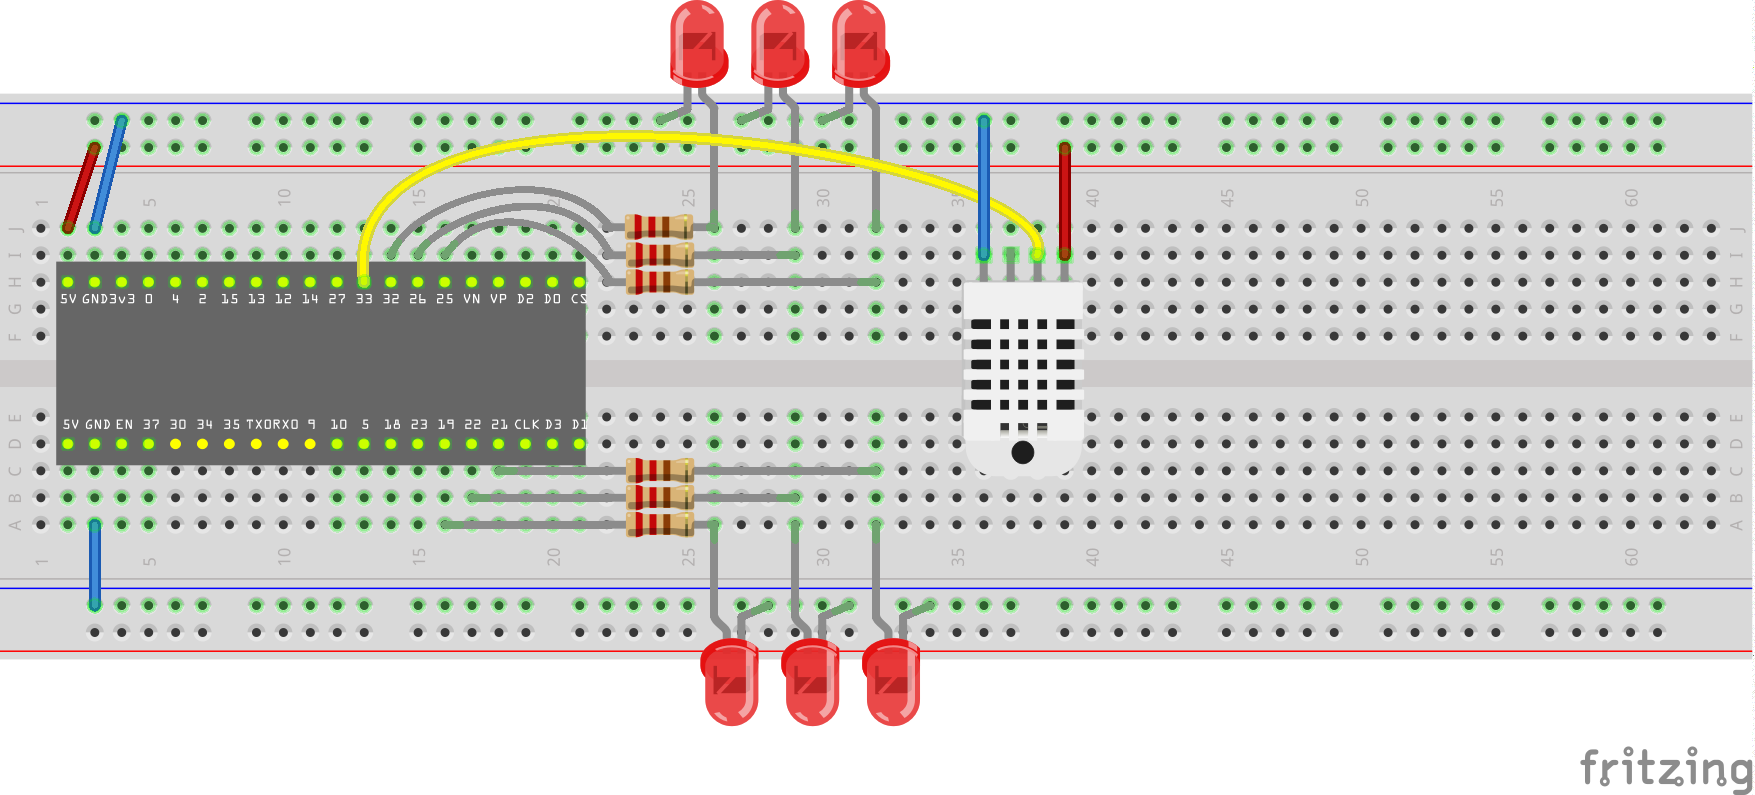
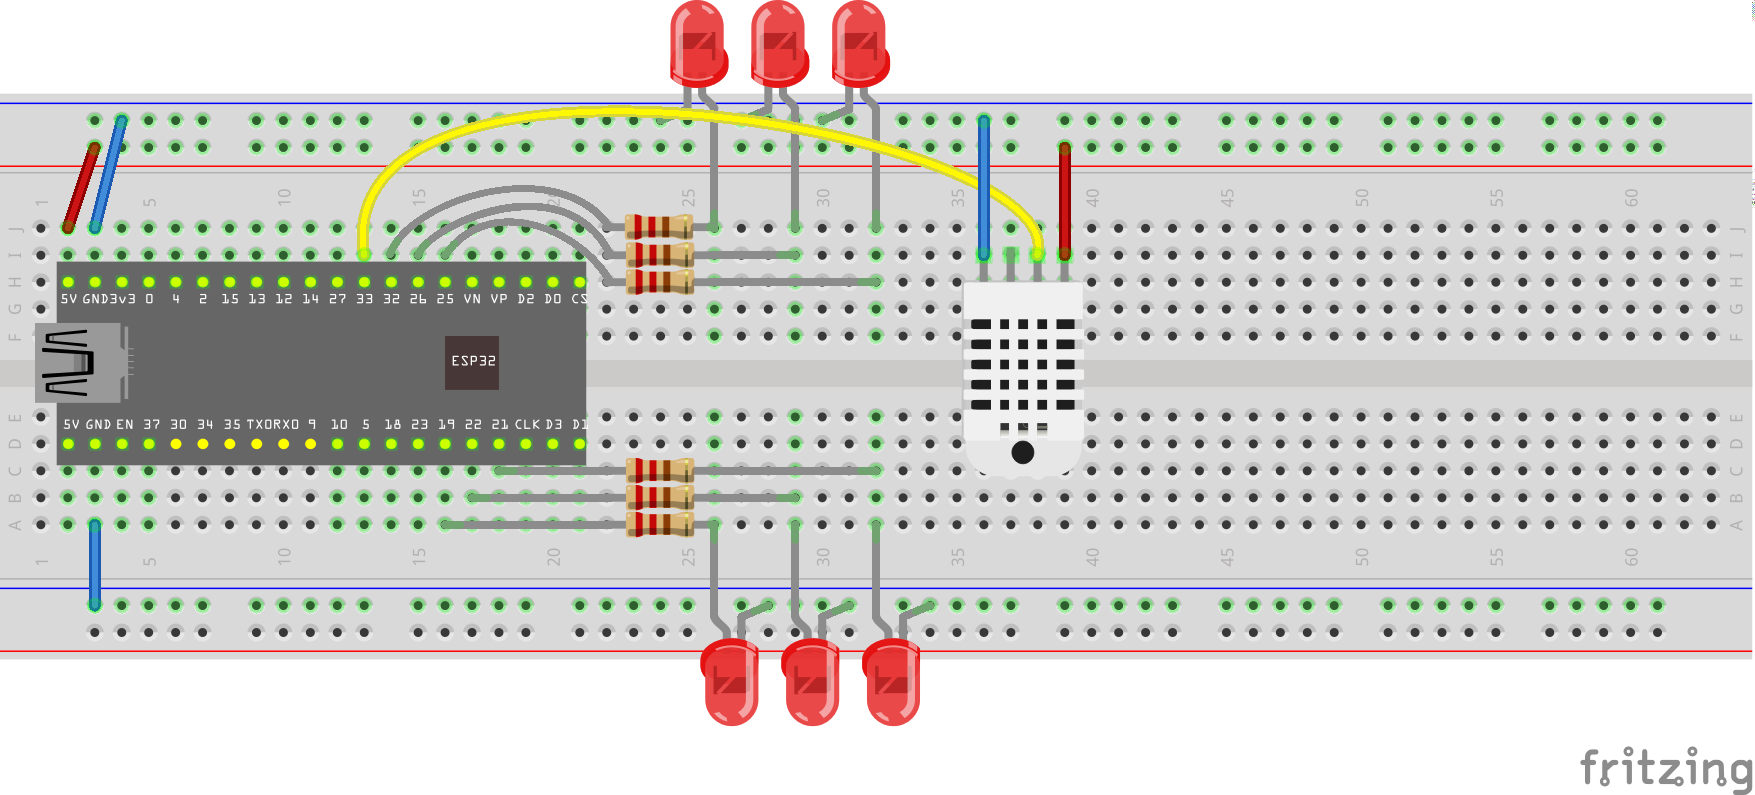
Arduino and ESP32 demo: fix typos and improve Pico kit wiring picture

diff --git a/docs/samples/esp32/gpio-control-pico-kit-dht22-sensor.md b/docs/samples/esp32/gpio-control-pico-kit-dht22-sensor.md
@@ -69,7 +69,8 @@ The following picture summarizes the connections for this project:
 
 This step contains instructions that are necessary to connect your device to ThingsBoard.
 
-Open ThingsBoard Web UI (http://localhost:8080) in browser and login as tenant administrator
+Open ThingsBoard Web UI (http://localhost:8080) in browser and login as tenant administrator.
+If you loaded the demo data during TB installation, the next credentials can be used:
 
  - login: tenant@thingsboard.org
  - password: tenant
@@ -168,7 +169,7 @@ In order to to perform troubleshooting, you must check ESP32 Pico logs. For that
 
 Finally, open ThingsBoard Web UI. You can access this dashboard by logging in as a tenant administrator.
 
-In case of local installation:
+In case of local installation (if the demo data was added during TB installation):
 
  - login: tenant@thingsboard.org
  - password: tenant
